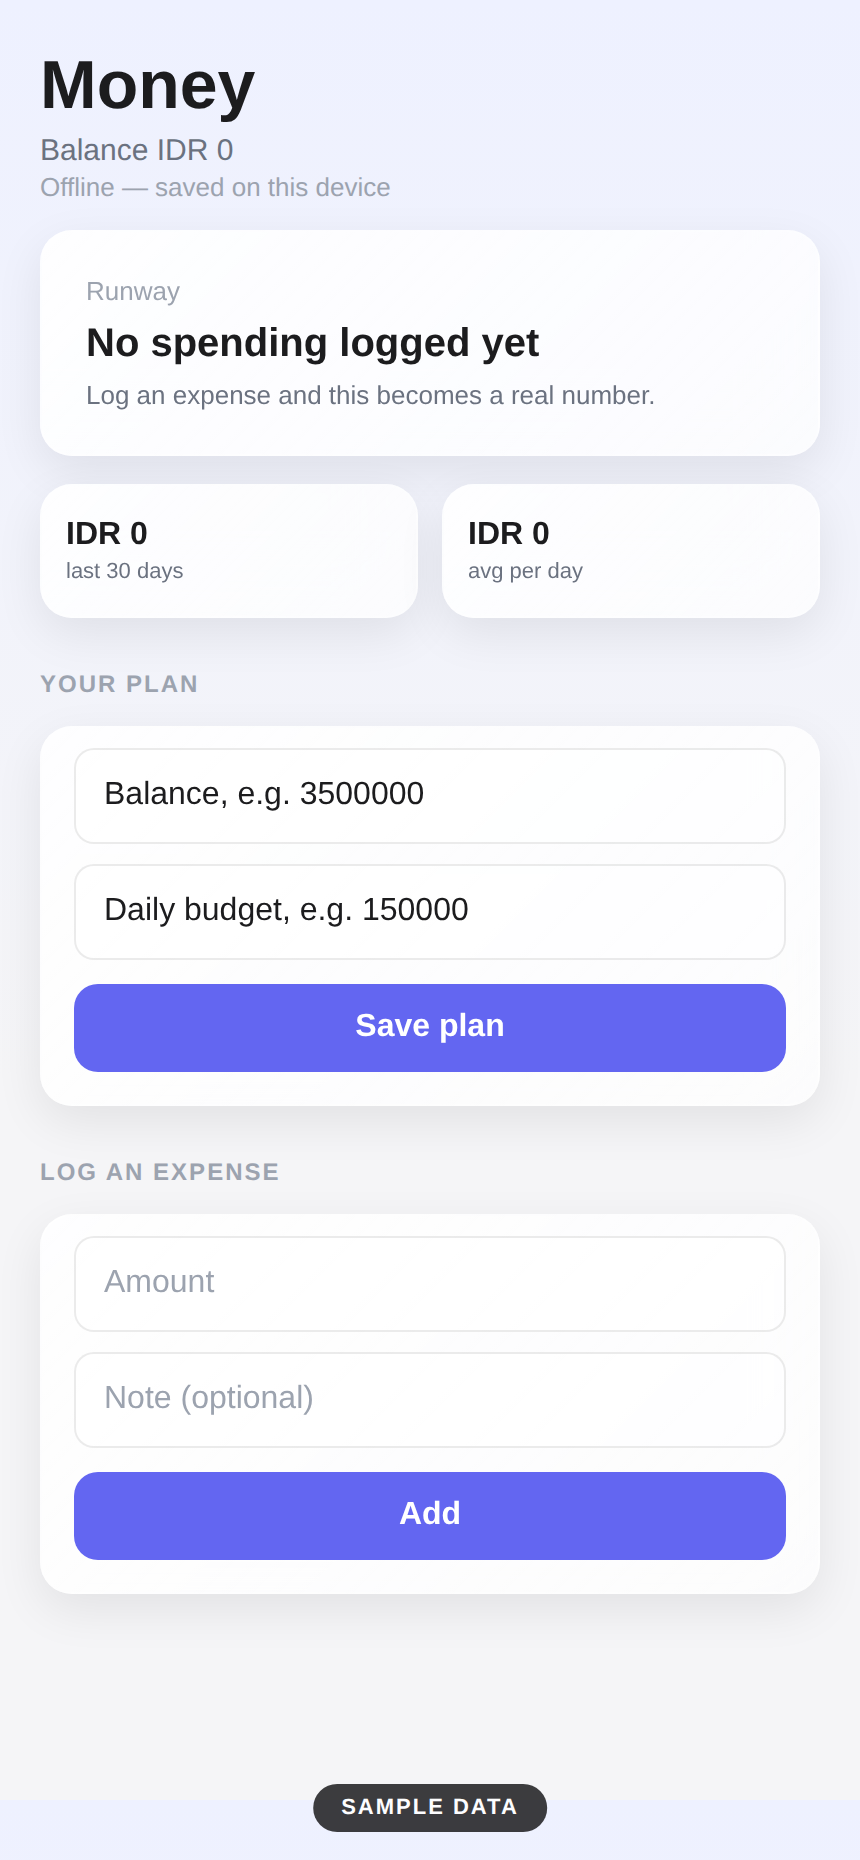
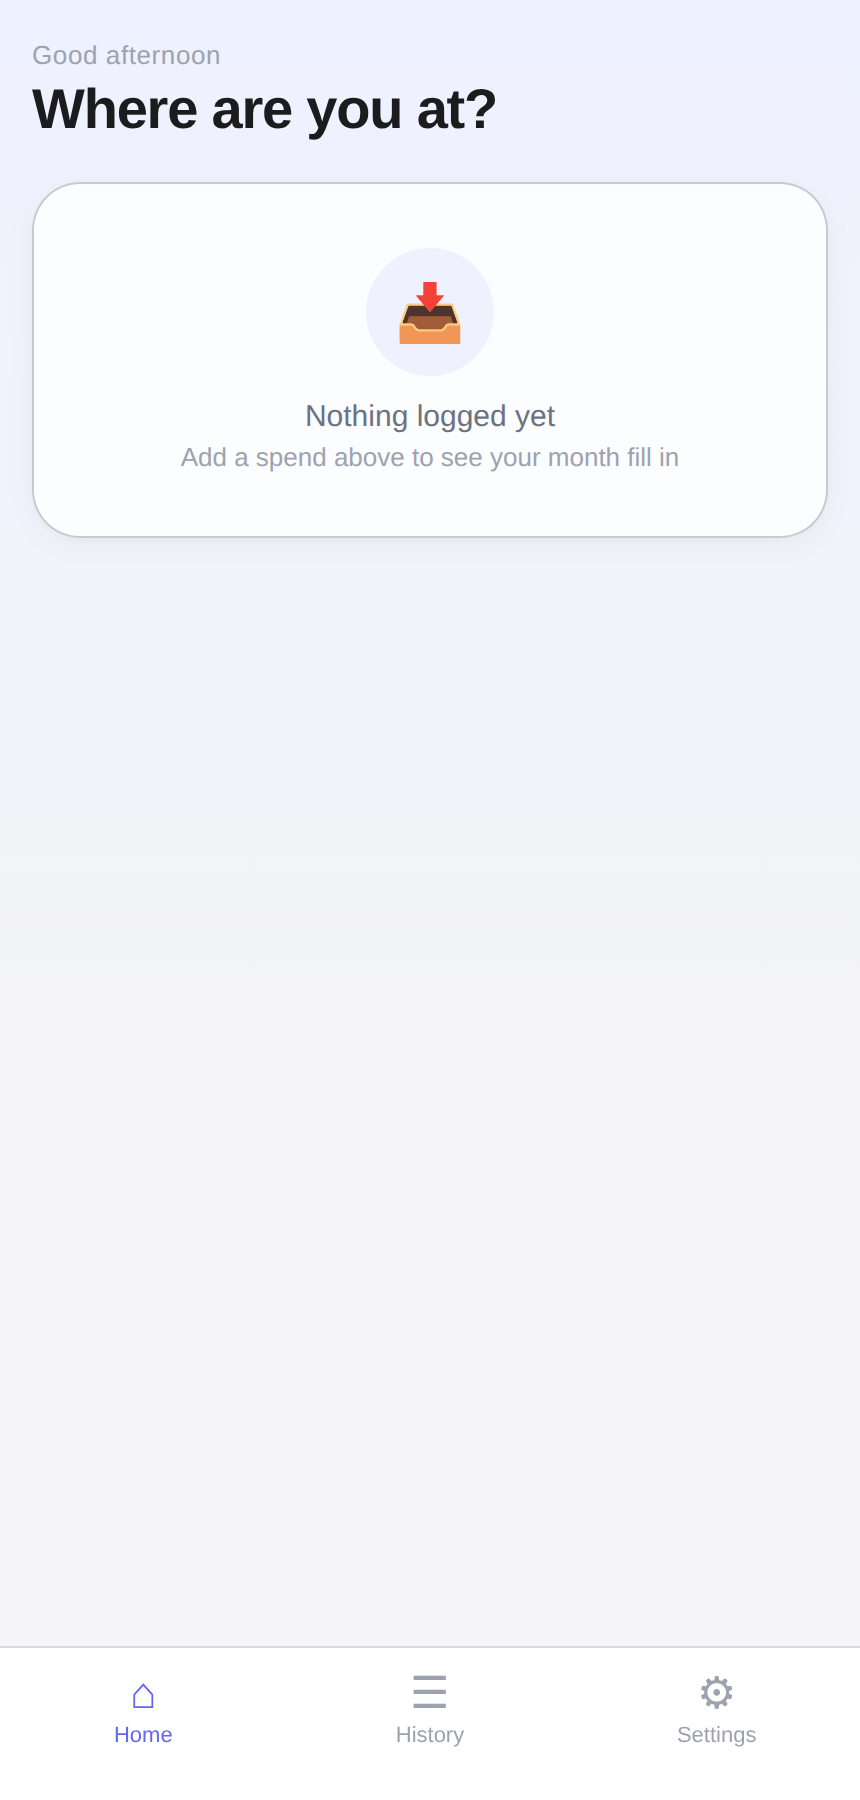
docs: README + previews match full port (Home/History/Settings, categories, calendar)

diff --git a/README.md b/README.md
@@ -1,97 +1,59 @@
 # Simple Financial Planner
 
-**How much runway is left, and what did today actually cost?**
+How much runway is left, and what did today actually cost?
 
-A standalone, offline-first Flutter app. Install it, set a balance and a daily
-budget, log expenses — it works with no account and no server. An optional
-self-hosted sync endpoint can be injected at build time
-(`--dart-define=API_BASE=...`); when it is unreachable the app falls back
-silently to the on-device ledger instead of showing an error.
-
----
+An offline-first Flutter app for tracking spending against a plan. Set a balance, a daily budget, and a target date, log what you spend, and it tells you when the money runs out at your current pace. No account, no server, everything stays on the phone.
 
 ## Screenshots
 
-| Empty state | Runway | Today |
+| Home | History | Fresh install |
 |---|---|---|
-| ![Empty state](screenshots/empty-state.png) | ![Runway](screenshots/home-runway.png) | ![Today](screenshots/today-budget.png) |
+| ![Home tab](screenshots/home-runway.png) | ![History tab](screenshots/today-budget.png) | ![Empty state](screenshots/empty-state.png) |
 
-## The number that changes behaviour
+UI previews with sample figures, rendered from the app's own palette and layout constants.
 
-A balance tells you what you have. **Runway** tells you what to do about it.
+## What it does
 
-So the headline is not the balance — it is `days remaining at current burn`.
-Balance sits underneath as context. A balance of 3,500,000 reads as comfortable;
-"9 days" reads as urgent, and only one of those makes you act.
+The Home tab opens with a greeting and the one number that matters: what is left in the pot, with a days-to-go pill. Underneath sit three readings for the day — the daily budget, what is still free today, and what today has cost so far. A status block underneath says plainly where things stand, whether that is on track for the target date or running out early.
 
-Under a week, it turns red and says so.
+The History tab lists every expense grouped under Today, Yesterday, and older dates. Filter chips narrow the list to one category or to uncategorized spends. Removing a row asks first, so a stray tap cannot wipe anything.
 
-## What it shows
+Settings holds the plan card (balance, daily budget, target date) plus the category manager. Categories carry their own budgets and keyword lists, and new spends match themselves to a category by keyword. Whole-word, case-insensitive, longest keyword wins.
 
-- **Runway** — days left at the current average daily burn
-- **Today** — spent vs daily budget, with what is left free
-- **Last 30 days** — total spend, average per day
-- **Your plan** — balance and daily budget, editable on-device
-- **Log an expense** — amount and an optional note
-
-Until you log spending there is no honest burn rate, so the app says
-"No spending logged yet" instead of inventing a figure.
-
-## Home-screen widget
-
-A native Android widget (`RunwayWidget`) shows days of runway and what is left
-free today — without opening the app.
-
-## Offline-first, optional sync
-
-The ledger lives in `SharedPreferences` via `lib/local_store.dart`, so the app
-is fully usable with no connectivity. When a sync server is configured, the app
-tries it first with a short timeout and syncs expenses best-effort; any
-failure falls back silently to local data. An unreachable server is the normal
-case for a fresh install, not an error worth a red card.
+A spend calendar on Home colors each day by how it went against the daily budget, so a bad week is visible at a glance.
 
 ## Runway maths
 
-Pure functions in `lib/finance_math.dart`, unit-tested in CI without a device
-or a server:
+The projection is simple division. Average daily spend is total spend over days with spending; remaining balance over that average gives days left. If daily budget is set but nothing is logged yet, the budget stands in. With no spending and no budget there is no honest burn rate, so the app says so instead of inventing a figure.
 
-```
-avg_daily   = total_spent_30d / days_with_spend
-runway_days = balance / avg_daily
-```
+## Storage
 
-With no spending there is no honest burn rate, so `runway_days` is omitted and
-the UI renders "No spending logged yet".
+Everything lives in SharedPreferences under `vector.*` keys, loaded once at startup behind a guard so defaults can never overwrite saved data. Deleting the app deletes the data.
 
-## Build
+## Home-screen widget
+
+A native Android widget (`RunwayWidget`) shows days of runway and what is left free today without opening the app.
+
+## Design
+
+Cards are liquid glass: a blurred backdrop with a two-stop white gradient, a hairline border, and a soft shadow. Type follows the Apple hierarchy with tight large titles, and labels are conversational throughout — Left in the pot, Each day, Today free — because Remaining Balance reads like a bank statement and nobody opens those twice.
+
+## Build and test
 
 ```bash
 flutter pub get
 flutter test
-flutter build apk --release --target-platform android-arm64 --split-per-abi
+flutter build apk --release --split-per-abi
 ```
 
-With optional sync:
-
-```bash
-flutter build apk --release --target-platform android-arm64 --split-per-abi \
-  --dart-define=API_BASE=https://your-host \
-  --dart-define=API_KEY=your-key
-```
-
-CI (GitHub Actions) builds and tests on every push to `main`. The native
-widget reads its endpoint from string resources, so CI injects `API_BASE` /
-`API_KEY` into `strings.xml` **before** the build step.
+CI builds and tests on every push to `main`.
 
 ## Privacy
 
-Everything is stored on the device by default. No account, no tracking. If you
-point the app at your own server, your data goes only there.
+On-device only. No account, no tracking, no network calls.
 
-## Not a licensed advisor
+This app computes and reports; it is not investment advice.
 
-This app **computes and reports**. It does not recommend trades or investments.
+## License
 
-## Licence
-
-MIT
+MIT — Joshua Riangkamang
